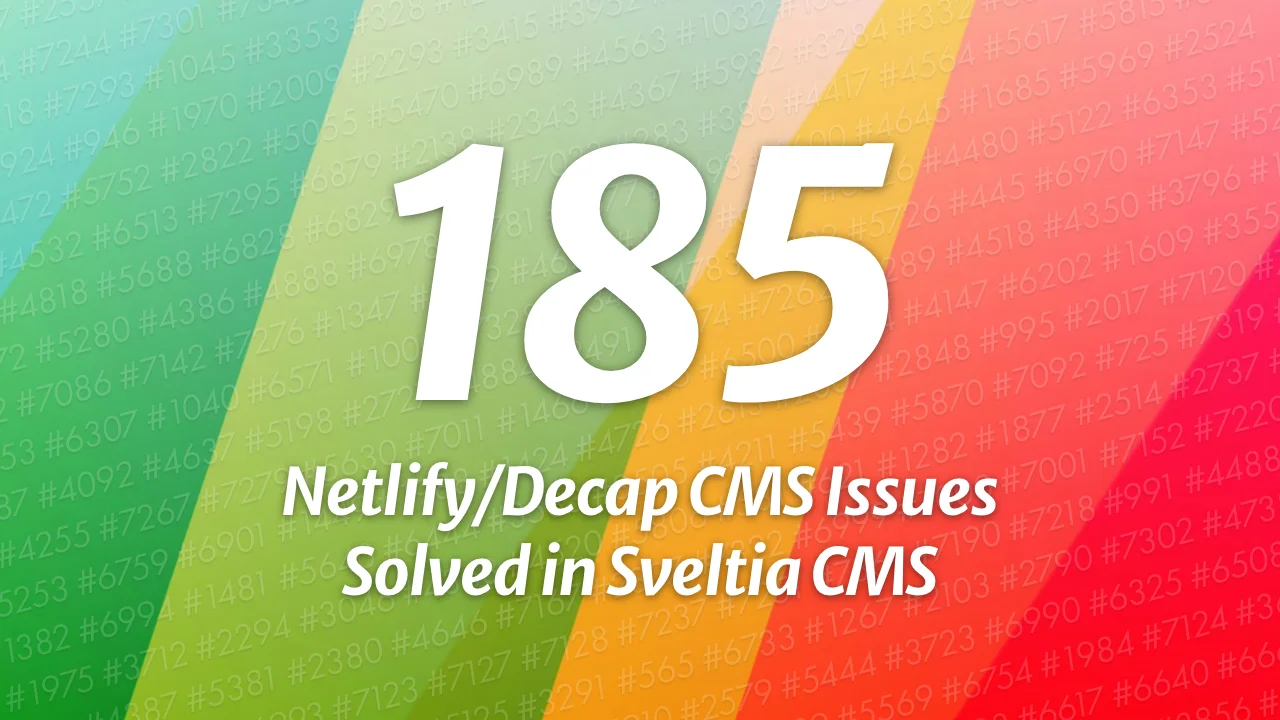
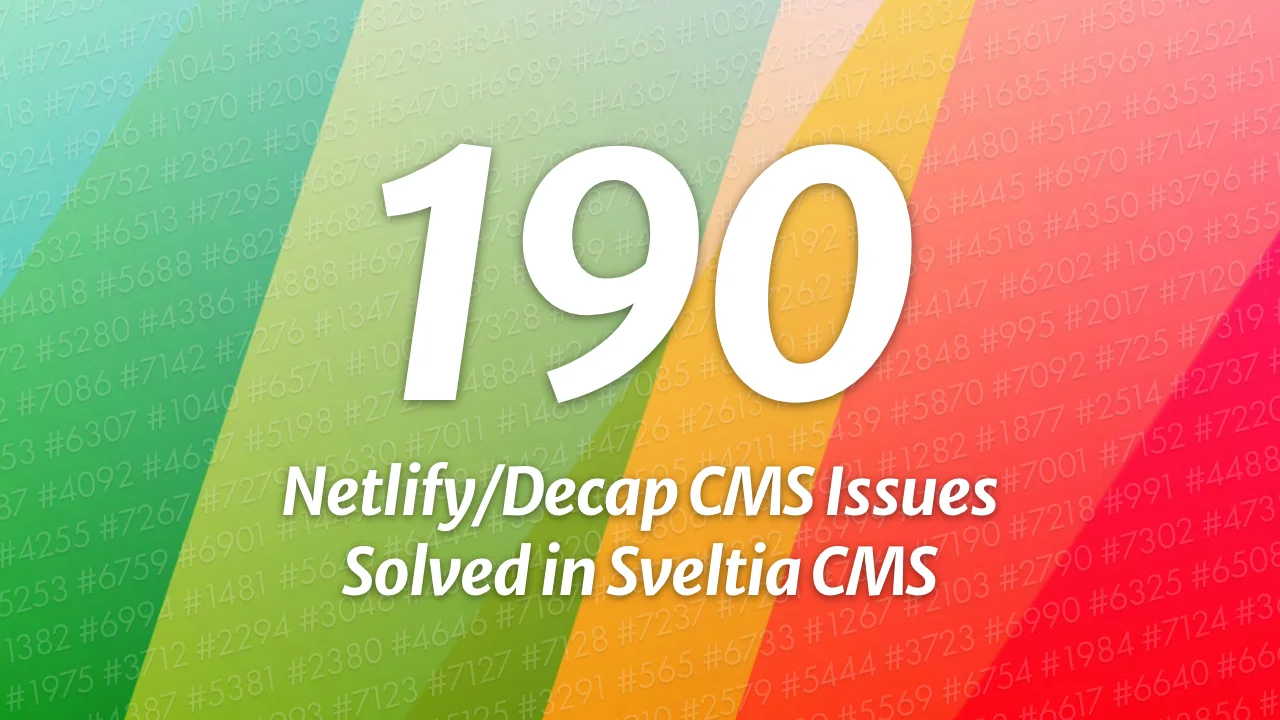
[skip ci] Update README.md

Changed region(s): [[0.2812, 0.1833, 0.7188, 0.5806]]

diff --git a/README.md b/README.md
@@ -67,6 +67,7 @@ The free, open source alternative to Netlify/Decap CMS is now in public beta, tu
   - [Disabling non-default locale content](#disabling-non-default-locale-content)
   - [Using a random ID for an entry slug](#using-a-random-id-for-an-entry-slug)
   - [Configuring multiple media libraries](#configuring-multiple-media-libraries)
+  - [Optimizing images for uploaded](#optimizing-images-for-uploaded)
   - [Editing data files with a top-level list](#editing-data-files-with-a-top-level-list)
   - [Changing the input type of a DateTime field](#changing-the-input-type-of-a-datetime-field)
   - [Controlling data output](#controlling-data-output)
@@ -120,7 +121,7 @@ While we fix reported bugs as quickly as possible, usually within 24 hours, our 
 - Ensuring substantial [compatibility with Netlify/Decap CMS](#compatibility)
 - Providing partial [compatibility with Static CMS](#compatibility-with-static-cms)
 - Tackling as many [Netlify/Decap CMS issues](https://github.com/decaporg/decap-cms/issues) as possible
-  - So far, 185+ issues, or 375+ if including duplicates, have been effectively solved in Sveltia CMS
+  - So far, 190+ issues, or 380+ if including duplicates, have been effectively solved in Sveltia CMS
   - Target:
     - 200 issues, or 400 if including duplicates, by GA (almost there)
     - 350 issues, or 600 if including duplicates, in the future
@@ -132,7 +133,7 @@ While we fix reported bugs as quickly as possible, usually within 24 hours, our 
 - Responding to requests from the maintainer’s clients
 - Making the code clean and maintainable
 
-![185 Netlify/Decap CMS Issues Solved in Sveltia CMS](https://raw.githubusercontent.com/sveltia/sveltia-cms/main/docs/headline-1.webp?20250327)<br>
+![190 Netlify/Decap CMS Issues Solved in Sveltia CMS](https://raw.githubusercontent.com/sveltia/sveltia-cms/main/docs/headline-1.webp?20250403)<br>
 
 ## Differentiators
 
@@ -479,6 +480,7 @@ Sveltia CMS has been built with a multilingual architecture from the very beginn
 - Enhancements to media library integrations:
   - Supports multiple media libraries with the [new `media_libraries` option](#configuring-multiple-media-libraries).[^195]
   - The `max_file_size` option for the File/Image widget can be defined within the global `media_library` option, using `default` as the library name. It applies to all File/Image entry fields, as well as direct uploads to the Asset Library. The option can also be part of the [new `media_libraries` option](#configuring-multiple-media-libraries).
+  - The default media library comes with a [built-in image optimizer](#optimizing-images-for-uploaded). With a few lines of configuration, images uploaded by users are automatically converted to WebP format for reduced size,[^199] and it’s also possible to specify a maximum width and/or height.[^200]
 - The global `media_folder` can be an empty string (or `.` or `/`) if you want to store assets in the root folder.
 - PDF documents are displayed with a thumbnail image in both the Asset Library and the Select File dialog, making it easier to find the file you’re looking for.[^38]
 - Assets stored in an entry-relative media folder are displayed in the Asset Library.[^142]
@@ -944,7 +946,8 @@ media_libraries:
   default:
     config:
       max_file_size: 1024000
-      # coming soon: image optimizer options
+      transformations:
+        # See the next section
   cloudinary:
     config:
       cloud_name: YOUR_CLOUD_NAME
@@ -957,6 +960,29 @@ media_libraries:
       autoFilename: true
       defaultOperations: '/resize/800x600/'
 ```
+
+### Optimizing images for uploaded
+
+Ever wanted to prevent end-users from adding huge images? The built-in optimizer in Sveltia CMS helps developers avoid such situations with a simple configuration like this:
+
+```yaml
+media_libraries:
+  default:
+    config:
+      transformations:
+        raster_image:
+          format: webp # only `webp` is supported
+          quality: 85 # default: 85
+          width: 2048 # default: original size
+          height: 2048 # default: original size
+```
+
+- As [noted above](#configuring-multiple-media-libraries), the `media_libraries` option can be global at the root level of `config.yml`, or field-specific for File/Image widgets.
+- `raster_image` applies to any supported raster image format: `avif`, `bmp`, `gif`, `jpeg`, `png`, `webp`. If you like, you can use a specific format as key instead of `raster_image`.
+- The `width` and `height` options are the maximum width and height, respectively. If an image is larger than the specified dimension, it will be scaled down. Smaller images will not be resized.
+- File processing is a bit slow on Safari because [native WebP encoding](https://caniuse.com/mdn-api_htmlcanvaselement_toblob_type_parameter_webp) is not yet supported. A [third-party library](https://github.com/jamsinclair/jSquash) is used as a fallback.
+- AVIF conversion is not supported at this time because no browser has native encoding support and the library is very slow.
+- We may add more transformation options in the future.
 
 ### Editing data files with a top-level list
 
@@ -1626,3 +1652,7 @@ This software is provided “as is” without any express or implied warranty. W
 [^197]: Netlify/Decap CMS [#3457](https://github.com/decaporg/decap-cms/issues/3457), [#3624](https://github.com/decaporg/decap-cms/issues/3624)
 
 [^198]: Netlify/Decap CMS [#7442](https://github.com/decaporg/decap-cms/issues/7442)
+
+[^199]: Netlify/Decap CMS [#5419](https://github.com/decaporg/decap-cms/issues/5419), [#7107](https://github.com/decaporg/decap-cms/issues/7107)
+
+[^200]: Netlify/Decap CMS [#1322](https://github.com/decaporg/decap-cms/issues/1322), [#6442](https://github.com/decaporg/decap-cms/issues/6442)
